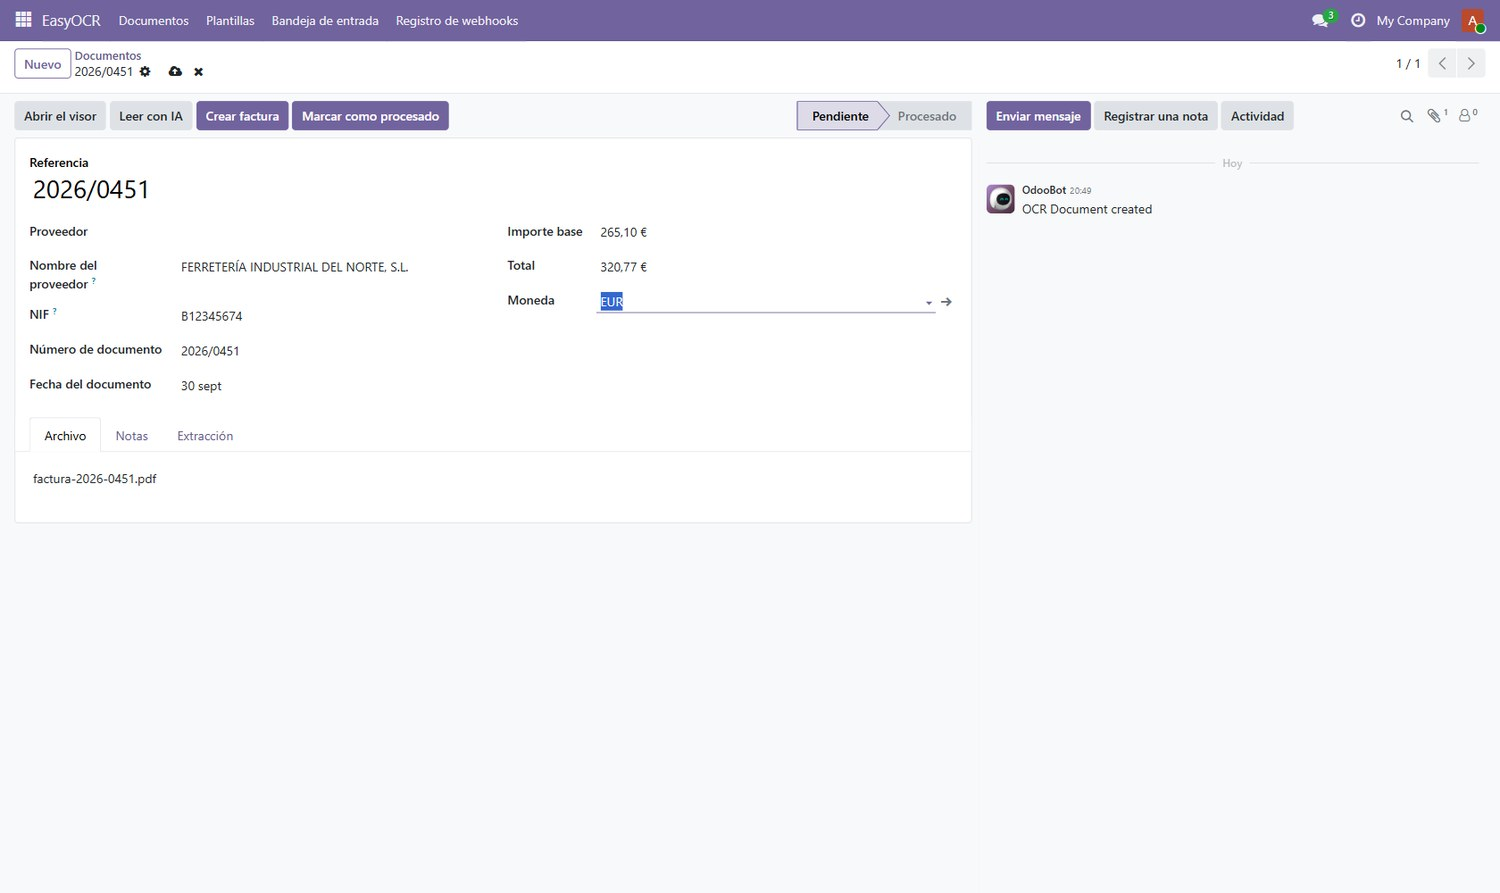
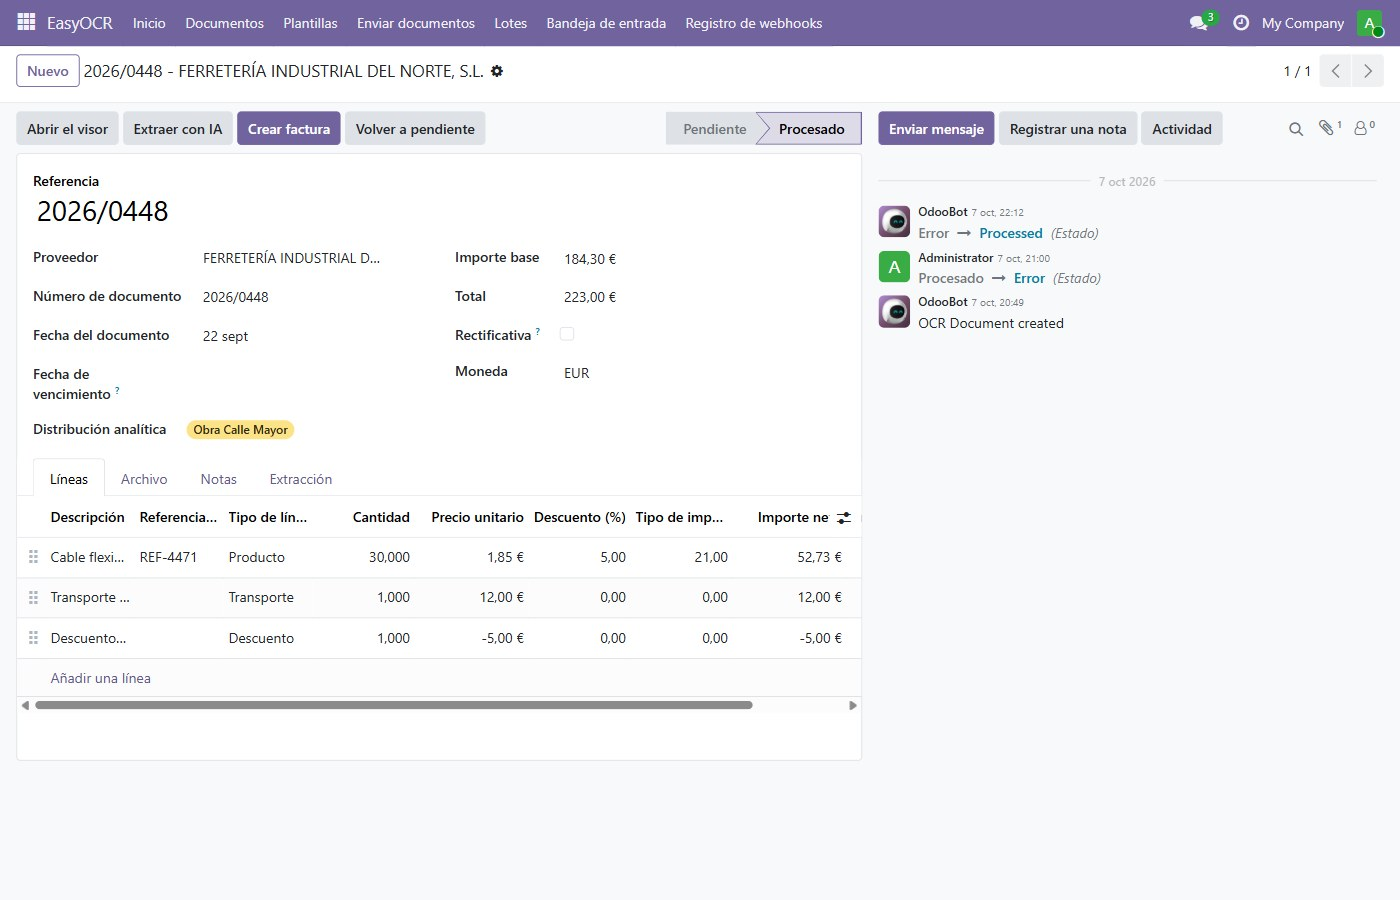
Retake the gallery on a made-up invoice and translate the views' own words
The Apps Store screenshots showed a real quote and an old interface; they are
retaken on a fictitious supplier. View strings and helps now point to their
view in every .po, with a test that reads the views. Bump to 1.0.5.

diff --git a/addons/easyocr/static/description/index.html b/addons/easyocr/static/description/index.html
@@ -36,8 +36,7 @@
             <h3>Reads the document</h3>
             <p>
                 Supplier, tax number, document number, dates, totals and lines are read from the
-                file. Nothing is posted behind your back: the values are offered for review and a
-                person confirms them.
+                file, and shown for review and correction before any bill is made.
             </p>
         </div>
         <div class="oe_span4">
@@ -50,9 +49,9 @@
         <div class="oe_span4">
             <h3>Builds the entry</h3>
             <p>
-                One click turns the document into a draft supplier bill, with its lines, its
-                taxes and the supplier matched by tax number. A credit note becomes a vendor
-                credit note instead.
+                One click turns the document into a supplier bill, with its lines and its
+                taxes. The supplier is matched by tax number, or created from what was read.
+                A credit note becomes a vendor credit note instead.
             </p>
         </div>
     </div>
@@ -62,13 +61,14 @@
     <div class="oe_row oe_spaced">
         <h2 class="oe_slogan">A reading ends on the screen that says what was read</h2>
         <div class="oe_span12">
-            <img src="shot-2-reading.jpg" class="img-fluid" alt="What the reading found"/>
+            <img src="shot-2-reading.jpg" class="img-fluid" alt="The AI result, with the lines and the bill options"/>
         </div>
         <div class="oe_span12">
             <p class="oe_mt32">
-                The confidence, the time it took, and the supplier details the document has no
-                field for: the address, the town, the phone, the email, the way they want to be
-                paid. From there, one button opens the document to make the entry.
+                The confidence and what it cost, one card per part of the document, the lines
+                with their VAT, surcharge and withholding ready to correct, a warning when they
+                do not add up, and the choice of draft or validated, journal and payment. From
+                there, one button makes the bill.
             </p>
         </div>
     </div>
@@ -85,9 +85,9 @@
             </p>
         </div>
         <div class="oe_span6">
-            <img src="shot-4-bill.jpg" class="img-fluid" alt="The draft supplier bill created from the document"/>
+            <img src="shot-4-bill.jpg" class="img-fluid" alt="The supplier bill created from the document"/>
             <p class="oe_mt32">
-                And the draft supplier bill, with one line per line read, its products, its
+                And the supplier bill, with one line per line read, its products, its
                 discounts and its taxes.
             </p>
         </div>

diff --git a/addons/easyocr/tests/test_easyocr_translations.py b/addons/easyocr/tests/test_easyocr_translations.py
@@ -551,6 +551,48 @@ class TestEasyocrTranslations(TransactionCase):
                         want(value, '%s <%s %s=>' % (where, node.tag, attribute))
         return found
 
+    def test_every_word_a_view_writes_points_to_that_view(self):
+        """Every string, help and placeholder written in the module's views.
+
+        A view's help is a term of its own, looked up under the view's reference
+        and not under the field's: the settings screen showed the field's help
+        in Spanish everywhere except on the settings screen itself, where the
+        <setting help="..."> said it again, in English.
+        """
+        attributes = ('string', 'help', 'placeholder', 'title', 'confirm')
+        expected = {}
+        root = os.path.dirname(os.path.dirname(os.path.abspath(__file__)))
+        folder = os.path.join(root, 'views')
+        for name in sorted(os.listdir(folder)):
+            if not name.endswith('.xml'):
+                continue
+            tree = ElementTree.parse(os.path.join(folder, name))
+            for record in tree.iter('record'):
+                if record.get('model') != 'ir.ui.view':
+                    continue
+                ref = 'model_terms:ir.ui.view,arch_db:easyocr.%s' % record.get('id')
+                for node in record.iter():
+                    for attribute in attributes:
+                        value = (node.get(attribute) or '').strip()
+                        if node.tag == 'field' and node.get('name') in ('arch', 'model', 'name', 'inherit_id', 'priority'):
+                            continue
+                        if value and not NOT_A_SENTENCE.match(value):
+                            expected.setdefault(value, set()).add(ref)
+        self.assertGreater(len(expected), 20, "Barely any view string was found.")
+
+        for po_name in self._po_files():
+            po = polib.pofile(os.path.join(self.i18n_path, po_name))
+            for msgid, refs in sorted(expected.items()):
+                entry = self._entry(po, msgid)
+                self.assertTrue(entry.msgstr, "%s leaves %r in English" % (po_name, msgid))
+                have = {reference for reference, _line in entry.occurrences}
+                for ref in refs:
+                    self.assertIn(
+                        ref, have,
+                        "%r is written in %s and %s does not point there, so that "
+                        "screen shows it in English." % (msgid, ref, po_name),
+                    )
+
     def test_the_strings_that_live_only_in_a_view_are_translated(self):
         """Nothing else carries these: they are text in the view and nowhere else."""
         for name in self._po_files():

diff --git a/addons/easyocr/__manifest__.py b/addons/easyocr/__manifest__.py
@@ -2,7 +2,7 @@
 # License LGPL-3 (see LICENSE file).
 {
     'name': 'EasyOCR',
-    'version': '19.0.1.0.4',
+    'version': '19.0.1.0.5',
     'summary': 'Extract supplier invoices and expense receipts from PDF and image files',
     'author': 'EasySoft Tech S.L.',
     'website': 'https://easysoft.es',

diff --git a/CHANGELOG.md b/CHANGELOG.md
@@ -176,6 +176,15 @@ work was done.
   viewer's; the note under the AI banner no longer points to a button that is
   not there when the service is off; and a name ending in a full stop no longer
   reads "S.L.." in the already-read warning.
+- **Screenshots retaken on a made-up invoice.** The Apps Store gallery and the
+  user guide showed a real quote, with a real customer's name and tax number,
+  and an interface that is no longer the module's. Every screenshot is now taken
+  from the current screens on a fictitious supplier.
+- **Words written straight into the views reached the screen in English.** A
+  view's own help or label is a term of its own, looked up under that view: the
+  draft setting's explanation, the batch history and its buttons, and the AI
+  instructions' example stayed in English on a Spanish screen. Every one of them
+  is now checked by a test.
 
 ### Pending
 

diff --git a/README.md b/README.md
@@ -140,8 +140,8 @@ One branch per Odoo series, as is the norm in the Odoo ecosystem:
 
 | Branch | Odoo series | Module version |
 | --- | --- | --- |
-| `19.0` (default) | Odoo Community 19.0 | `19.0.1.0.4` |
-| `18.0` | Odoo Community 18.0 | `18.0.1.0.4` |
+| `19.0` (default) | Odoo Community 19.0 | `19.0.1.0.5` |
+| `18.0` | Odoo Community 18.0 | `18.0.1.0.5` |
 
 The branch name and the first two digits of the module version always match, and the CI
 checks it. One module covers one series: the code is the same on both, except where the

diff --git a/docs/manual/manual-easyocr-es.md b/docs/manual/manual-easyocr-es.md
@@ -1,7 +1,7 @@
 ---
 title: EasyOCR para Odoo — Guía de usuario
 subtitle: Leer facturas de proveedor y tickets desde Odoo
-version: 19.0.1.0.4 / 18.0.1.0.4
+version: 19.0.1.0.5 / 18.0.1.0.5
 date: 2026-10-09
 author: EasySoft Tech S.L.
 ---
